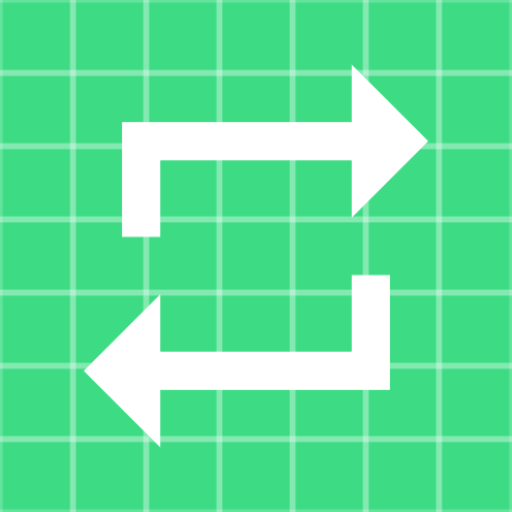
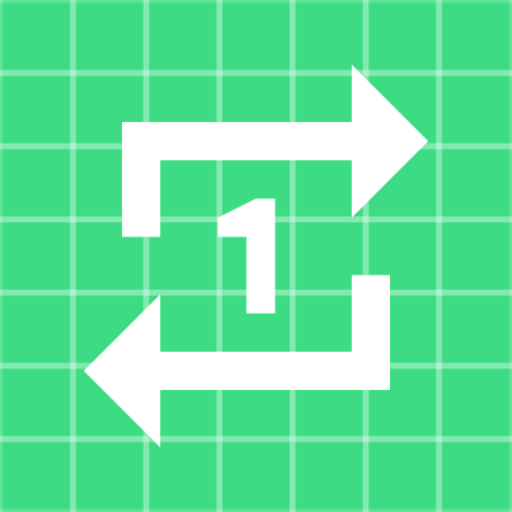
added repeat button bahaullah functionality

Changed region(s): [[0.4062, 0.375, 0.5625, 0.625]]

diff --git a/app/src/main/java/com/hfad/flower/AudioPlayerBahaullah.java b/app/src/main/java/com/hfad/flower/AudioPlayerBahaullah.java
@@ -46,6 +46,7 @@ public class AudioPlayerBahaullah extends Fragment {
     private TextView currTime;
     private TextView endTime;
     private int shuffleOn = 0;
+    private int repeatOn = 0;
     private Queue<Integer> pq = new PriorityQueue<>();
 
     private FloatingActionButton shuffleBtn;
@@ -123,6 +124,11 @@ public class AudioPlayerBahaullah extends Fragment {
             else if (track.equals("shuffle")) {
                 shuffleOn = 1;
                 shuffleBtn.setBackgroundTintList(ColorStateList.valueOf(Color.GRAY));
+                trackNum = savedInstanceState.getInt("all");
+            }
+            else if (track.equals("repeat")) {
+                repeatOn = 1;
+                repeatBtn.setBackgroundTintList(ColorStateList.valueOf(Color.GRAY));
                 trackNum = savedInstanceState.getInt("all");
             }
 
@@ -238,6 +244,27 @@ public class AudioPlayerBahaullah extends Fragment {
             }
         });
 
+        repeatBtn.setOnClickListener(new View.OnClickListener() {
+            @Override
+            public void onClick(View view) {
+                if (repeatOn == 0) {
+                    repeatOn = 1;
+                    repeatBtn.setBackgroundTintList(ColorStateList.valueOf(Color.GRAY));
+                    track = "repeat";
+                    //trackNum = rand.nextInt(numTracks+1);
+                    //pq.add(trackNum);
+                }
+                else {
+                    track = "all";
+                    repeatOn = 0;
+                    repeatBtn.setBackgroundTintList(ColorStateList.valueOf(Color.parseColor("#cdcdc5")));
+                }
+
+                //shuffleBtn.getBackgroundTintList(ContextCompat.getColorStateList(getContext(), R.color.fadedBlue)));
+                //shuffleBtn.getBackgroundTintList(ColorStateList.valueOf(ContextCompat.getColor(getContext(),R.color.fadedGray)));
+            }
+        });
+
         forwardBtn.setOnClickListener(new View.OnClickListener() {
             @Override
             public void onClick(View v) {
@@ -267,6 +294,7 @@ public class AudioPlayerBahaullah extends Fragment {
                        forwardTrack(prayer1);
                        break;
                    case "all":
+                   case "repeat":
                        //playAllOn = 1;
                        if (bgSound.isPlaying())
                            playAllCtrl = 0;
@@ -369,6 +397,7 @@ public class AudioPlayerBahaullah extends Fragment {
                         backTrack(prayer7);
                         break;
                     case "all":
+                    case "repeat":
                         if (bgSound.getCurrentPosition() < 2000) {
                             if (trackNum == 0)
                                 trackNum = numTracks;
@@ -926,8 +955,8 @@ public class AudioPlayerBahaullah extends Fragment {
             trackNum++;
             currTime.setText("00:00");
             //mSeekbarUpdateHandler.removeCallbacks(mUpdateSeekbar);
-            playBtn.setVisibility(View.VISIBLE);
-            pauseBtn.setVisibility(View.GONE);
+            //playBtn.setVisibility(View.VISIBLE);
+            //pauseBtn.setVisibility(View.GONE);
             bgSound.seekTo(0);
             seekBar.setProgress(0);
             intent.putExtra("pos", bgSound.getCurrentPosition());
@@ -976,6 +1005,16 @@ public class AudioPlayerBahaullah extends Fragment {
                 trackNum = 0;
 
             }
+        }
+        else if (track.equals("repeat")) {
+            currTime.setText("00:00");
+            //mSeekbarUpdateHandler.removeCallbacks(mUpdateSeekbar);
+            //playBtn.setVisibility(View.VISIBLE);
+            //pauseBtn.setVisibility(View.GONE);
+            bgSound.seekTo(0);
+            seekBar.setProgress(0);
+            intent.putExtra("pos", bgSound.getCurrentPosition());
+            playAll(trackNum);
         }
         else {
             currTime.setText("00:00");
